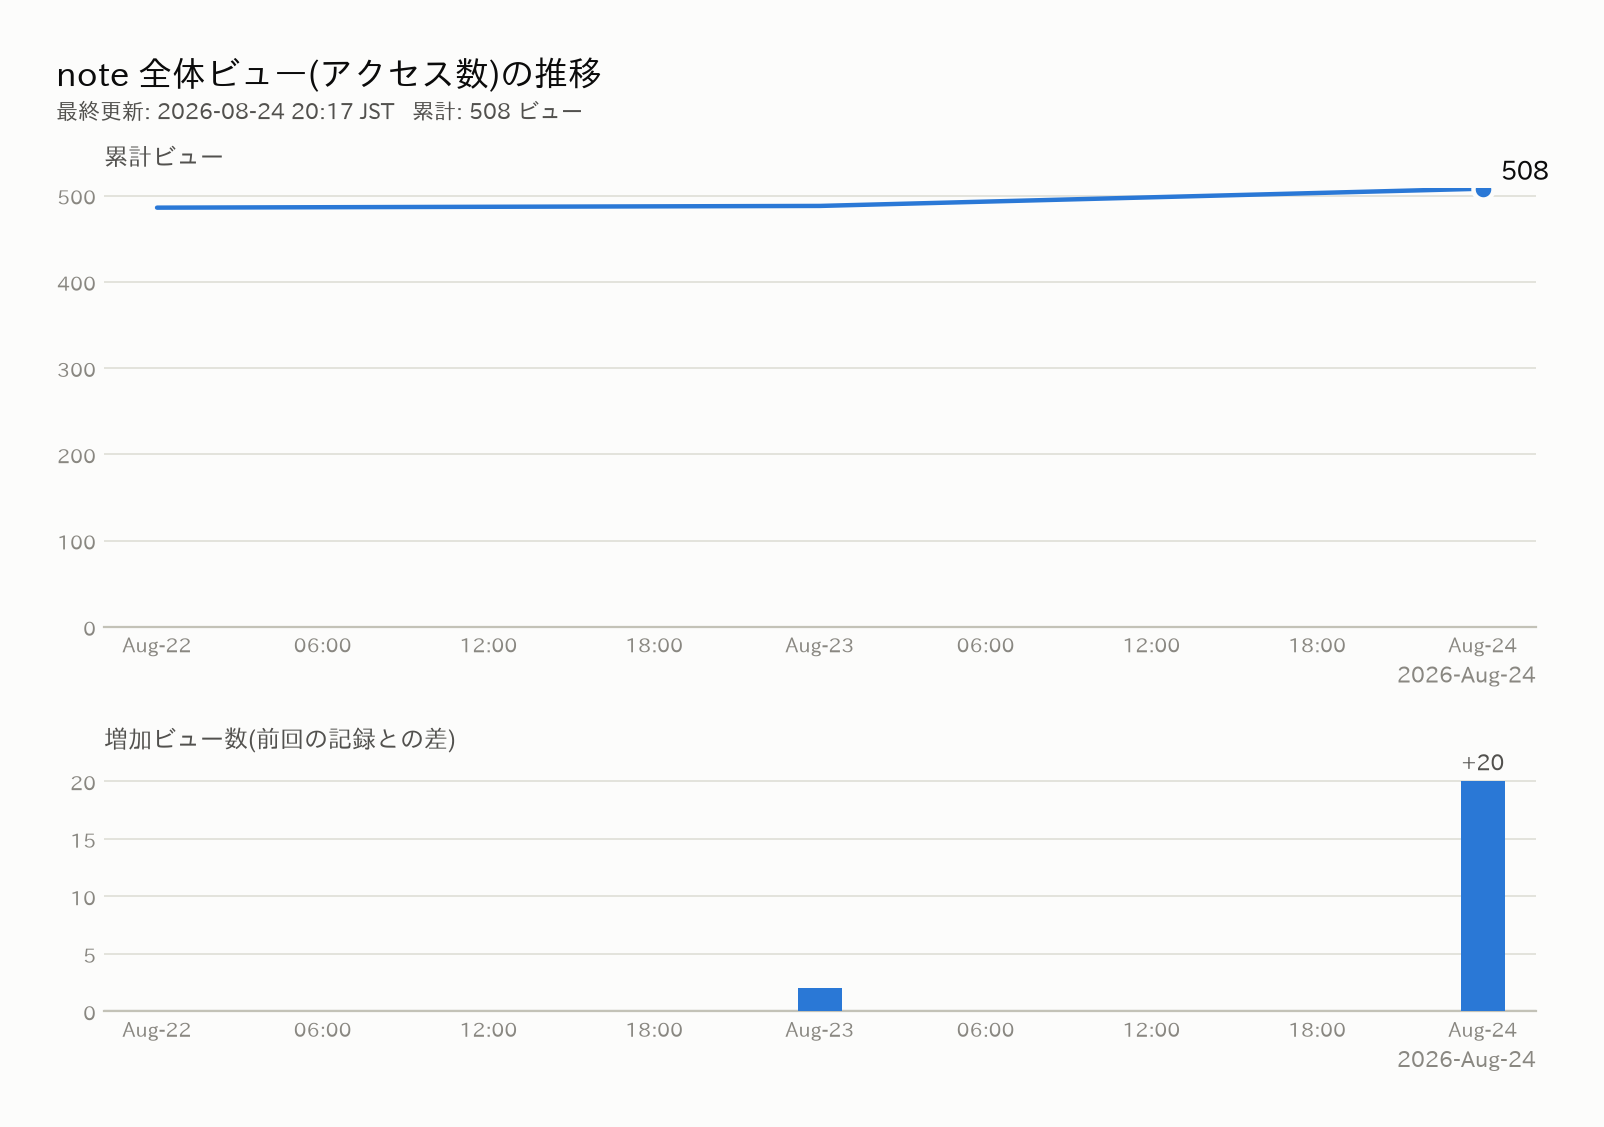
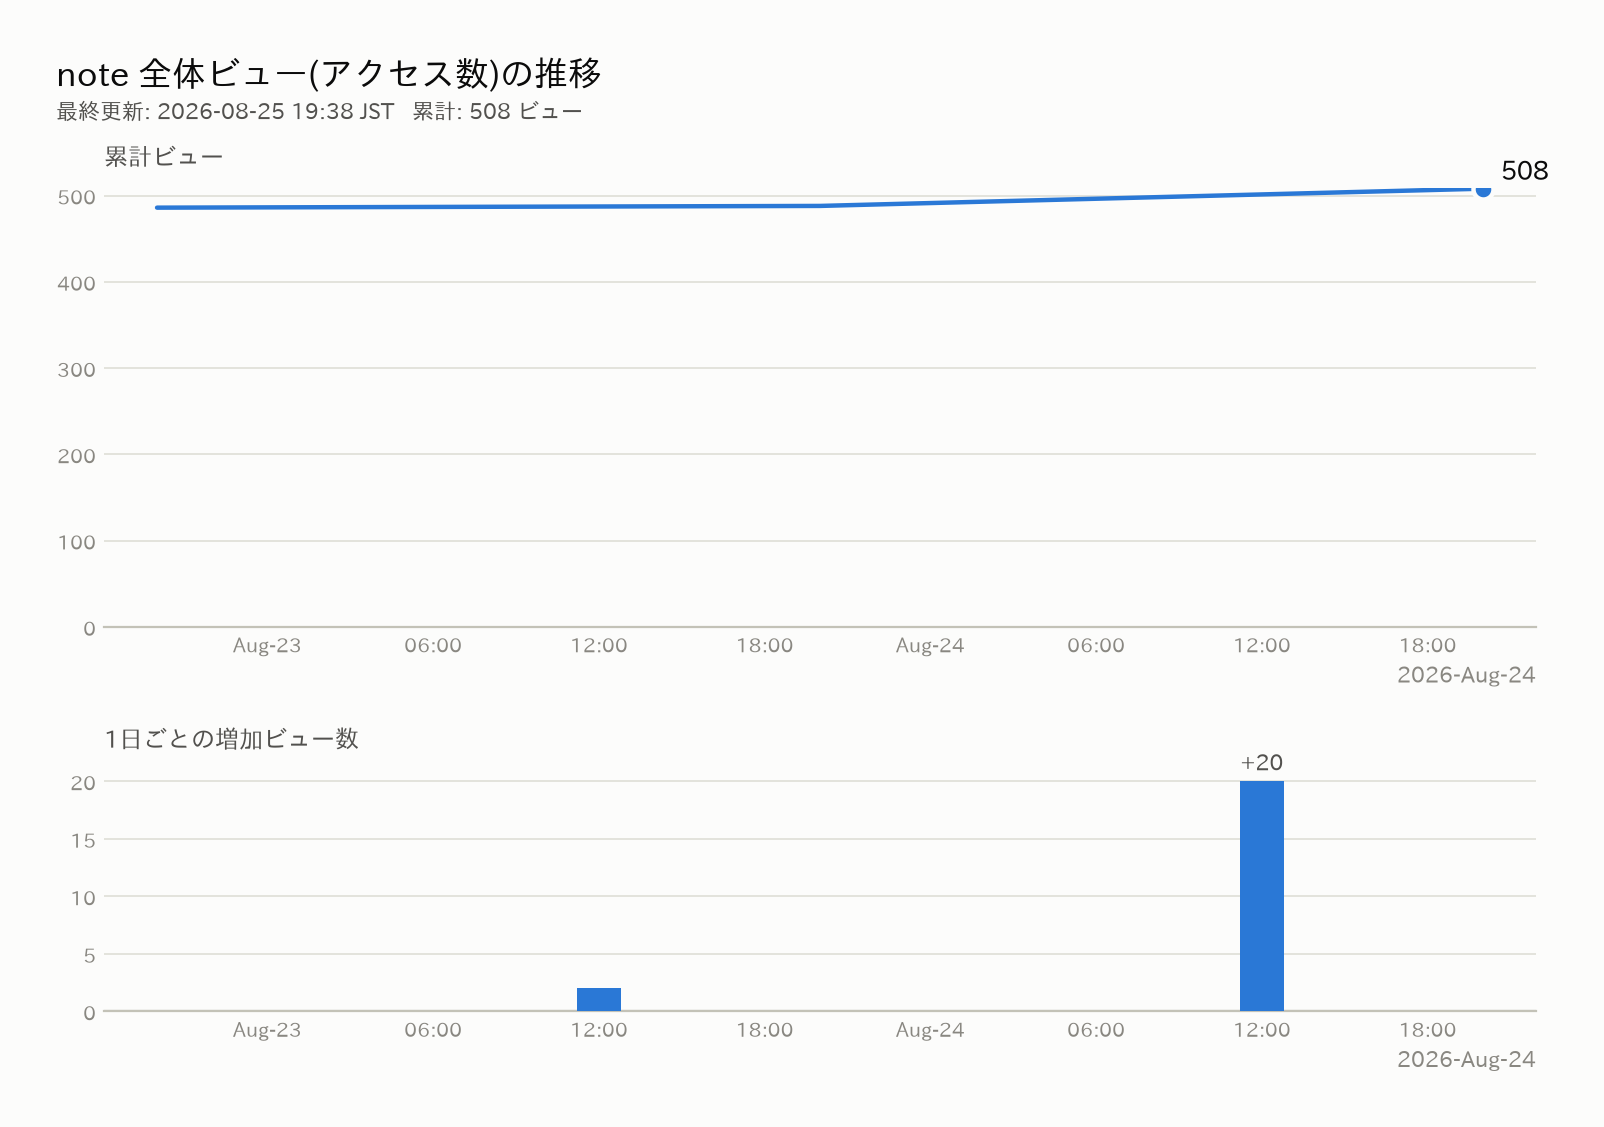
チェック間隔を毎日20時から6時間ごとに変更
GitHub Actionsのcronを 2時/8時/14時/20時(JST)の4回に変更。
記録を日付ベースから日時ベース(recorded_at、1時間単位で上書き)に
改め、旧形式のCSV・生データは読み込み時に自動移行する。
全体グラフの折れ線は6時間ごとの全記録を描き、棒グラフは
「1日ごとの増加ビュー数」(その日の最後の記録どうしの差)に集計する。

Claude-Session: https://claude.ai/code/session_01WByNkQcCTayuzpxhh7RtAN

diff --git a/tools/note_stats/make_graph.py b/tools/note_stats/make_graph.py
@@ -2,14 +2,14 @@
 # -*- coding: utf-8 -*-
 """data/stats.csv から note のアクセス数グラフ(docs/stats.png)を生成する。
 
-上段: 全体ビューの累計の推移(折れ線)
-下段: 前回取得からの増加ビュー数(棒)
+上段: 全体ビューの累計の推移(折れ線。6時間ごとの全記録)
+下段: 1日ごとの増加ビュー数(棒。その日の最後の記録どうしの差)
 データがまだ無い場合は案内メッセージだけの画像を出力する。
 """
 from __future__ import annotations
 
 import csv
-from datetime import datetime, date as date_type, timedelta, timezone
+from datetime import datetime, date as date_type, time as time_type, timedelta, timezone
 from pathlib import Path
 
 import matplotlib.pyplot as plt
@@ -36,24 +36,37 @@ T = {
     True: {
         "title": "note 全体ビュー(アクセス数)の推移",
         "cumulative": "累計ビュー",
-        "daily": "増加ビュー数(前回の記録との差)",
+        "daily": "1日ごとの増加ビュー数",
         "updated": "最終更新",
         "total": "累計",
         "views_unit": "ビュー",
-        "no_data": "まだデータがありません。\n毎日20時の自動実行(または手動実行)後にグラフが表示されます。",
+        "no_data": "まだデータがありません。\n6時間ごとの自動実行(または手動実行)後にグラフが表示されます。",
         "need_two": "増加数は2日分のデータが揃うと表示されます",
     },
     False: {
         "title": "note.com total views",
         "cumulative": "Cumulative views",
-        "daily": "New views since previous record",
+        "daily": "Daily increase in views",
         "updated": "Updated",
         "total": "Total",
         "views_unit": "views",
-        "no_data": "No data yet.\nThe graph will appear after the first daily run.",
+        "no_data": "No data yet.\nThe graph will appear after the first run.",
         "need_two": "Daily change appears once two days of data exist",
     },
 }[HAS_JP_FONT]
+
+
+def parse_recorded_at(r: dict) -> datetime | None:
+    value = (r.get("recorded_at") or "").strip()
+    if not value:
+        old_date = (r.get("date") or "").strip()
+        if not old_date:
+            return None
+        value = old_date + "T20:00"  # 旧形式(1日1行)は毎日20時ごろの取得だった
+    try:
+        return datetime.fromisoformat(value)
+    except ValueError:
+        return None
 
 
 def load_rows() -> list[dict]:
@@ -62,16 +75,14 @@ def load_rows() -> list[dict]:
     with CSV_PATH.open(newline="", encoding="utf-8") as f:
         rows = []
         for r in csv.DictReader(f):
+            when = parse_recorded_at(r)
             try:
-                rows.append(
-                    {
-                        "date": date_type.fromisoformat(r["date"]),
-                        "total_pv": int(r["total_pv"]),
-                    }
-                )
+                total_pv = int(r["total_pv"])
             except (KeyError, ValueError):
                 continue
-    rows.sort(key=lambda r: r["date"])
+            if when is not None:
+                rows.append({"when": when, "total_pv": total_pv})
+    rows.sort(key=lambda r: r["when"])
     return rows
 
 
@@ -103,9 +114,15 @@ def bar_width_days(ax, dates: list[date_type]) -> float:
 
 
 def render_chart(rows: list[dict]) -> None:
-    dates = [r["date"] for r in rows]
+    times = [r["when"] for r in rows]
     totals = [r["total_pv"] for r in rows]
-    deltas = [b - a for a, b in zip(totals, totals[1:])]
+
+    # 1日ごとの増加数 = その日の最後の記録と前日の最後の記録の差
+    last_of_day: dict[date_type, int] = {}
+    for r in rows:
+        last_of_day[r["when"].date()] = r["total_pv"]
+    days = sorted(last_of_day)
+    day_deltas = [last_of_day[b] - last_of_day[a] for a, b in zip(days, days[1:])]
 
     fig = new_figure()
     gs = fig.add_gridspec(2, 1, height_ratios=[2.0, 1.1], hspace=0.42)
@@ -115,7 +132,7 @@ def render_chart(rows: list[dict]) -> None:
     # ---- 上段: 累計ビューの折れ線 ----
     style_axis(ax1)
     ax1.plot(
-        dates,
+        times,
         totals,
         color=SERIES,
         linewidth=2,
@@ -125,7 +142,7 @@ def render_chart(rows: list[dict]) -> None:
     )
     # 終端マーカー(サーフェス色の 2px リング付き)と、終端のみ直接ラベル
     ax1.plot(
-        dates[-1],
+        times[-1],
         totals[-1],
         marker="o",
         markersize=9,
@@ -136,7 +153,7 @@ def render_chart(rows: list[dict]) -> None:
     )
     ax1.annotate(
         f"{totals[-1]:,}",
-        (dates[-1], totals[-1]),
+        (times[-1], totals[-1]),
         textcoords="offset points",
         xytext=(8, 4),
         fontsize=11.5,
@@ -145,31 +162,32 @@ def render_chart(rows: list[dict]) -> None:
     ax1.set_title(T["cumulative"], loc="left", fontsize=11, color=INK_2, pad=10)
     ax1.set_ylim(bottom=0)
     ax1.margins(x=0.04)
-    if len(dates) == 1:
+    if len(times) == 1:
         # 1点だけのときは前後3日に絞る(既定だと数年分の軸になってしまう)
-        ax1.set_xlim(dates[0] - timedelta(days=3), dates[0] + timedelta(days=3))
+        ax1.set_xlim(times[0] - timedelta(days=3), times[0] + timedelta(days=3))
 
-    # ---- 下段: 増加ビュー数の棒 ----
+    # ---- 下段: 1日ごとの増加ビュー数の棒 ----
     style_axis(ax2)
     ax2.set_title(T["daily"], loc="left", fontsize=11, color=INK_2, pad=10)
-    if deltas:
-        bar_dates = dates[1:]
+    if day_deltas:
+        # 棒はその日の正午の位置に置く(折れ線の1日分の範囲の中央に揃う)
+        bar_x = [datetime.combine(d, time_type(12)) for d in days[1:]]
         ax2.set_xlim(ax1.get_xlim())  # 上下段で期間を揃える
-        width = bar_width_days(ax2, bar_dates)
-        ax2.bar(bar_dates, deltas, width=width, color=SERIES, zorder=3)
+        width = bar_width_days(ax2, days[1:])
+        ax2.bar(bar_x, day_deltas, width=width, color=SERIES, zorder=3)
         ax2.axhline(0, color=BASELINE, linewidth=1, zorder=2)
         # 最新の棒だけ値を直接ラベル
-        latest = deltas[-1]
+        latest = day_deltas[-1]
         ax2.annotate(
             f"{latest:+,}",
-            (bar_dates[-1], max(latest, 0)),
+            (bar_x[-1], max(latest, 0)),
             textcoords="offset points",
             xytext=(0, 5),
             ha="center",
             fontsize=10,
             color=INK_2,
         )
-        if min(deltas) >= 0:
+        if min(day_deltas) >= 0:
             ax2.set_ylim(bottom=0)
     else:
         ax2.set_xlim(ax1.get_xlim())

diff --git a/tools/note_stats/fetch_stats.py b/tools/note_stats/fetch_stats.py
@@ -4,7 +4,9 @@
 
 https://note.com/sitesettings/stats が内部で使っている API
 (https://note.com/api/v1/stats/pv)から全期間の記事別統計を取得し、
-合計値を CSV に1日1行で追記する。同じ日に複数回実行した場合は上書きされる。
+合計値を CSV に1回の取得につき1行で追記する(6時間ごとの実行を想定)。
+同じ日の同じ時間帯(1時間単位)に再実行した場合は上書きされる。
+旧形式(date 列による1日1行)の CSV は読み込み時に自動で新形式へ移行する。
 
 必要な環境変数:
   NOTE_COOKIE ... note.com のログイン Cookie。次のいずれかの形式で指定する:
@@ -14,8 +16,8 @@ https://note.com/sitesettings/stats が内部で使っている API
     3. _note_session_v5 の値そのもの
 
 出力:
-  data/stats.csv           ... 日次サマリー(date, total_pv, total_likes, ...)
-  data/raw/YYYY-MM-DD.json ... その日に取得した記事別の生データ(将来の再集計用)
+  data/stats.csv              ... 取得ごとのサマリー(recorded_at, total_pv, ...)
+  data/raw/YYYY-MM-DDTHH.json ... その回に取得した記事別の生データ(将来の再集計用)
 """
 from __future__ import annotations
 
@@ -43,7 +45,7 @@ REPO_ROOT = Path(__file__).resolve().parents[2]
 CSV_PATH = REPO_ROOT / "data" / "stats.csv"
 RAW_DIR = REPO_ROOT / "data" / "raw"
 CSV_FIELDS = [
-    "date",
+    "recorded_at",
     "total_pv",
     "total_likes",
     "total_comments",
@@ -156,7 +158,7 @@ def fetch_all_stats(cookie_header: str) -> dict:
 def summarize(snapshot: dict) -> dict:
     stats = snapshot["note_stats"]
     return {
-        "date": datetime.now(JST).date().isoformat(),
+        "recorded_at": datetime.now(JST).strftime("%Y-%m-%dT%H:%M"),
         "total_pv": sum(read_count_of(s) for s in stats),
         "total_likes": sum(to_int(s.get("like_count")) for s in stats),
         "total_comments": sum(to_int(s.get("comment_count")) for s in stats),
@@ -165,15 +167,29 @@ def summarize(snapshot: dict) -> dict:
     }
 
 
+def normalize_row(r: dict) -> dict | None:
+    """CSV の1行を新形式に揃える。旧形式(date 列)は 20:00 の記録とみなして移行する。"""
+    recorded_at = (r.get("recorded_at") or "").strip()
+    if not recorded_at:
+        old_date = (r.get("date") or "").strip()
+        if not old_date:
+            return None
+        recorded_at = old_date + "T20:00"  # 旧形式は毎日20時ごろの取得だった
+    row = {k: str(r.get(k, "")) for k in CSV_FIELDS}
+    row["recorded_at"] = recorded_at
+    return row
+
+
 def upsert_csv_row(row: dict) -> None:
-    """同じ日付の行があれば置き換え、なければ追記して日付順に保存する。"""
+    """同じ時間帯(1時間単位)の行があれば置き換え、なければ追記して日時順に保存する。"""
     rows: list[dict] = []
     if CSV_PATH.exists():
         with CSV_PATH.open(newline="", encoding="utf-8") as f:
-            rows = [r for r in csv.DictReader(f) if r.get("date")]
-    rows = [r for r in rows if r["date"] != row["date"]]
+            rows = [n for n in (normalize_row(r) for r in csv.DictReader(f)) if n]
+    hour_key = row["recorded_at"][:13]  # YYYY-MM-DDTHH
+    rows = [r for r in rows if r["recorded_at"][:13] != hour_key]
     rows.append({k: str(row.get(k, "")) for k in CSV_FIELDS})
-    rows.sort(key=lambda r: r["date"])
+    rows.sort(key=lambda r: r["recorded_at"])
     CSV_PATH.parent.mkdir(parents=True, exist_ok=True)
     with CSV_PATH.open("w", newline="", encoding="utf-8") as f:
         writer = csv.DictWriter(f, fieldnames=CSV_FIELDS, extrasaction="ignore")
@@ -198,13 +214,13 @@ def main() -> None:
     row = summarize(snapshot)
 
     RAW_DIR.mkdir(parents=True, exist_ok=True)
-    raw_path = RAW_DIR / f"{row['date']}.json"
+    raw_path = RAW_DIR / f"{row['recorded_at'][:13]}.json"
     raw_path.write_text(
         json.dumps(snapshot, ensure_ascii=False, indent=2) + "\n", encoding="utf-8"
     )
     upsert_csv_row(row)
 
-    print(f"記録しました: {row['date']}")
+    print(f"記録しました: {row['recorded_at']}")
     print(f"  全体ビュー : {row['total_pv']:,}")
     print(f"  スキ       : {row['total_likes']:,}")
     print(f"  コメント   : {row['total_comments']:,}")

diff --git a/tools/note_stats/make_articles_graph.py b/tools/note_stats/make_articles_graph.py
@@ -9,7 +9,7 @@
 from __future__ import annotations
 
 import json
-from datetime import datetime, date as date_type, timedelta, timezone
+from datetime import datetime, timedelta, timezone
 from pathlib import Path
 
 import matplotlib.pyplot as plt
@@ -49,8 +49,8 @@ T = {
         "articles": "記事",
         "all": "全",
         "top": "上位",
-        "no_data": "まだデータがありません。\n毎日20時の自動実行(または手動実行)後にグラフが表示されます。",
-        "need_two": "推移は2日分のデータが揃うと表示されます",
+        "no_data": "まだデータがありません。\n6時間ごとの自動実行(または手動実行)後にグラフが表示されます。",
+        "need_two": "推移は2回分のデータが揃うと表示されます",
     },
     False: {
         "title": "note.com per-article views & likes",
@@ -61,8 +61,8 @@ T = {
         "articles": "articles",
         "all": "of ",
         "top": "top ",
-        "no_data": "No data yet.\nThe graph will appear after the first daily run.",
-        "need_two": "The trend appears once two days of data exist",
+        "no_data": "No data yet.\nThe graph will appear after the first run.",
+        "need_two": "The trend appears once two records exist",
     },
 }[HAS_JP_FONT]
 
@@ -81,14 +81,27 @@ def read_count_of(stat: dict) -> int:
     return 0
 
 
-def load_snapshots() -> list[tuple[date_type, dict[int, dict]]]:
-    """(日付, {記事id: 統計}) のリストを日付順に返す。壊れたファイルは読み飛ばす。"""
+def parse_stem(stem: str) -> datetime | None:
+    """ファイル名(拡張子なし)を日時にする。新形式 "2026-08-25T14" と旧形式 "2026-08-22" の両対応。"""
+    try:
+        when = datetime.fromisoformat(stem)
+    except ValueError:
+        return None
+    if "T" not in stem:
+        when = when.replace(hour=20)  # 旧形式(日付のみ)は毎日20時ごろの取得だった
+    return when
+
+
+def load_snapshots() -> list[tuple[datetime, dict[int, dict]]]:
+    """(日時, {記事id: 統計}) のリストを日時順に返す。壊れたファイルは読み飛ばす。"""
     snapshots = []
     for path in sorted(RAW_DIR.glob("*.json")) if RAW_DIR.exists() else []:
+        when = parse_stem(path.stem)
+        if when is None:
+            continue
         try:
-            day = date_type.fromisoformat(path.stem)
             data = json.loads(path.read_text(encoding="utf-8"))
-        except (ValueError, json.JSONDecodeError):
+        except json.JSONDecodeError:
             continue
         stats = {
             s["id"]: s
@@ -96,7 +109,8 @@ def load_snapshots() -> list[tuple[date_type, dict[int, dict]]]:
             if isinstance(s, dict) and s.get("id") is not None
         }
         if stats:
-            snapshots.append((day, stats))
+            snapshots.append((when, stats))
+    snapshots.sort(key=lambda s: s[0])
     return snapshots
 
 
@@ -190,8 +204,8 @@ def render_chart(snapshots) -> None:
         render_trend(ax1, snapshots)
     else:
         style_axis(ax1)
-        day = snapshots[-1][0]
-        ax1.set_xlim(day - timedelta(days=3), day + timedelta(days=3))
+        when = snapshots[-1][0]
+        ax1.set_xlim(when - timedelta(days=3), when + timedelta(days=3))
         ax1.text(
             0.5, 0.5, T["need_two"], transform=ax1.transAxes,
             ha="center", va="center", fontsize=10, color=MUTED,

diff --git a/README.md b/README.md
@@ -2,7 +2,7 @@
 
 ## note アクセス数の自動記録・グラフ化
 
-毎日 **20:00(日本時間)** に GitHub Actions が note.com のダッシュボード
+**6時間ごと**(日本時間の 2時・8時・14時・20時ごろ)に GitHub Actions が note.com のダッシュボード
 ([https://note.com/sitesettings/stats](https://note.com/sitesettings/stats) と同じデータ)を自動取得し、
 アクセス数を記録してこのグラフを更新します。
 
@@ -36,18 +36,18 @@
 
 | ファイル | 内容 |
 |---|---|
-| `data/stats.csv` | 1日1行のサマリー(全体ビュー・スキ・コメント・記事数) |
-| `data/raw/日付.json` | その日の記事別の生データ(あとで記事別の分析にも使えます) |
+| `data/stats.csv` | 取得ごと(6時間ごと)のサマリー(全体ビュー・スキ・コメント・記事数) |
+| `data/raw/日時.json` | その回の記事別の生データ(あとで記事別の分析にも使えます) |
 | `docs/stats.png` | 累計ビューの推移と、1日ごとの増加数のグラフ |
 | `docs/articles.png` | 記事別のグラフ(ビューの推移 上位5記事・累計ビュー/スキのランキング 上位10記事) |
 
 ### 注意事項・困ったとき
 
-- **20:00 ぴったりには動かないことがあります。** GitHub Actions の仕様で、混雑時は数分〜数十分遅れます。
+- **時刻ぴったりには動かないことがあります。** GitHub Actions の仕様で、混雑時は数分〜数十分遅れます。
 - **自動実行はデフォルトブランチ(main)にこのファイルがあるときだけ動きます。** ブランチにある間は手動実行(Run workflow)で試せます。
 - **実行が失敗するようになったら、Cookie の期限切れです。** GitHub から失敗通知メールが届くので、
   初回セットアップと同じ手順で Cookie を取り直し、Secret を更新(`NOTE_COOKIE` の鉛筆マーク)してください。
-- 取得は1日1回・自分のアカウントのデータのみで、note の非公式 API を利用しています。
+- 取得は6時間に1回・自分のアカウントのデータのみで、note の非公式 API を利用しています。
   note 側の仕様変更で動かなくなる可能性はありますが、生データを毎日保存しているので記録は失われません。
 
 ## tools
